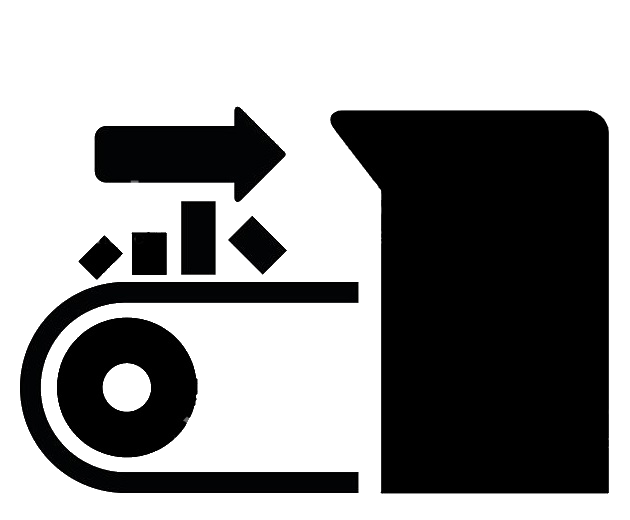
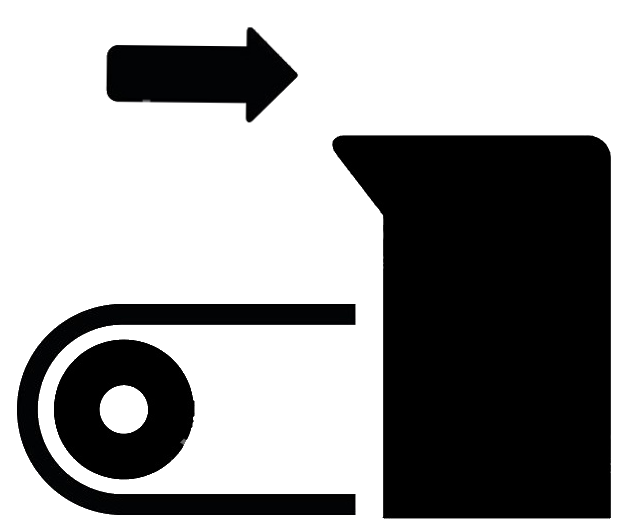
Some new images and new files.

Changed region(s): [[0.0, 0.0308, 0.573, 1.0], [0.5127, 0.1846, 0.9952, 1.0]]

diff --git a/views/Station.qml b/views/Station.qml
@@ -8,14 +8,62 @@ Item {
     property alias source: phase.source
     Rectangle {
         id: rect
-        color: "#adadad"
+        color: "#96969b"
+        anchors.rightMargin: 0
+        anchors.bottomMargin: 0
+        anchors.leftMargin: 0
+        anchors.topMargin: 0
         anchors.fill: parent
+
+        Image {
+            id: phaseE
+            x: 0
+            y: 50
+            width: 118
+            height: 102
+            fillMode: Image.PreserveAspectFit
+            source: "../images/entrada1.1.png"
+            Rectangle {
+                id: rectE
+                width: 10
+                height: 10
+                color: "#78f478"
+                radius: 5
+                anchors.right: parent.right
+                anchors.top: parent.top
+                anchors.topMargin: 0
+                anchors.rightMargin: 0
+
+            }
+        }
+
+        Image {
+            id: phaseS
+            x: 524
+            y: 50
+            width: 116
+            height: 102
+            fillMode: Image.PreserveAspectFit
+            source: "../images/salida1.1.png"
+            Rectangle {
+                id: rectS
+                width: 10
+                height: 10
+                color: "#78f478"
+                radius: 5
+                anchors.right: parent.right
+                anchors.top: parent.top
+                anchors.topMargin: 0
+                anchors.rightMargin: 0
+
+            }
+        }
     }
 
     Image {
         id: phaseR
-        x: 384
-        y: 223
+        x: 265
+        y: 245
         width: 41
         height: 52
         fillMode: Image.PreserveAspectFit
@@ -36,28 +84,16 @@ Item {
     }
     Image {
         id: phaseP
-        x: 38
+        x: 161
         y: 44
         width: 44
         height: 50
         fillMode: Image.PreserveAspectFit
         source: "../images/product2.png"
-        Rectangle {
-            id: rectP
-            width: 10
-            height: 10
-            color: "#78f478"
-            radius: 5
-            anchors.right: parent.right
-            anchors.top: parent.top
-            anchors.topMargin: 0
-            anchors.rightMargin: 0
-
-        }
     }
     Image {
         id: phaseC
-        x: 312
+        x: 389
         y: 8
         width: 54
         height: 51
@@ -79,8 +115,8 @@ Item {
         id: bchica
         x: 164
         y: 168
-        width: 217
-        height: 50
+        width: 405
+        height: 71
         anchors.horizontalCenter: parent.horizontalCenter
         fillMode: Image.PreserveAspectFit
         source: "../images/banda1.1.png"
@@ -90,48 +126,67 @@ Item {
         id: bgrande
         x: 22
         y: 100
-        width: 487
-        height: 54
+        width: 407
+        height: 62
+        anchors.horizontalCenterOffset: 1
         anchors.horizontalCenter: parent.horizontalCenter
         fillMode: Image.PreserveAspectFit
-        source: "../images/banda1.4.png"
+        source: "../images/banda1.1.png"
     }
-    states : [
-        State{
-            name:'apagadoR'
-            PropertyChanges {
-                target: rectR
-                color: "#ba0505"
-            }
-            PropertyChanges {
-                target: phaseR
-                source: "../images/repair3.1.png"
+//    states : [
+//        State{
+//            name:'apagadoR'
+//            PropertyChanges {
+//                target: rectR
+//                color: "#ba0505"
+//            }
+//            PropertyChanges {
+//                target: phaseR
+//                source: "../images/repair3.1.png"
 
-            }
-        },
-        State{
-            name:'apagadoC'
-            PropertyChanges {
-                target: rectC
-                color: "#ba0505"
-            }
-            PropertyChanges {
-                target: phaseC
-                source: "../images/repair3.1.png"
+//            }
+//        },
+//        State{
+//            name:'apagadoC'
+//            PropertyChanges {
+//                target: rectC
+//                color: "#ba0505"
+//            }
+//            PropertyChanges {
+//                target: phaseC
+//                source: "../images/check2.1.png"
 
-            }
-        },
-        State{
-            name:'apagadoP'
-            PropertyChanges {
-                target: rectP
-                color: "#ba0505"
-            }
-            PropertyChanges {
-                target: phaseP
-                source: "../images/repair3.1.png"
+//            }
+//        },
+//        State{
+//            name:'apagadoP'
+//            PropertyChanges {
 
-            }
-        }
-    ]
+//            }
+//        },
+//        State{
+//            name:'apagadoE'
+//            PropertyChanges {
+//                target: rectE
+//                color: "#ba0505"
+//            }
+//            PropertyChanges {
+//                target: phaseE
+//                source: "../images/entrada1.2.png"
+
+//            }
+//        },
+//        State{
+//            name:'apagadoS'
+//            PropertyChanges {
+//                target: rectS
+//                color: "#ba0505"
+//            }
+//            PropertyChanges {
+//                target: phaseS
+//                source: "../images/salida1.2.png"
+
+//            }
+//        }
+//    ]
 }

diff --git a/main.qml b/main.qml
@@ -2,6 +2,7 @@ import QtQuick 2.7
 import QtQuick.Controls 2.0
 import QtQuick.Layouts 1.3
 import my 1.0
+import "views"
 ApplicationWindow {
     visible: true
     width: 640
@@ -33,6 +34,12 @@ ApplicationWindow {
                 duration:300
             }
 
+        }
+        Loader{
+            id: initialPlaceHolder
+            source: "views/StartPage.qml"
+            active: true
+            visible: true
         }
 
     }

diff --git a/views/StartPage.qml b/views/StartPage.qml
@@ -4,9 +4,11 @@ import QtQuick.Layouts 1.3
 Item {
     property int station : 0
     id: item1
-
+    Rectangle{
+        color: "#575656"
+    anchors.fill: parent
+ }
     Station {
-
         anchors.bottom: parent.bottom
         anchors.bottomMargin: parent.height/3
         anchors.right: parent.right

diff --git a/views/Menu.qml b/views/Menu.qml
@@ -1,0 +1,14 @@
+import QtQuick 2.0
+import QtQuick.Layouts 1.3
+import QtQuick.Controls 2.2
+import QtQuick.Controls.Material 2.2
+ToolBar {
+    id: myTitleBar
+    RowLayout {
+        spacing: 6
+        anchors.fill:parent
+        Item {
+            width: 4
+        }
+    }
+}

diff --git a/views/InfoView.qml b/views/InfoView.qml
@@ -1,0 +1,16 @@
+import QtQuick 2.0
+
+Item {
+    Rectangle{
+        id: background
+        color: "#060511"
+        anchors.fill: parent
+
+Repeater{
+    model:15
+    Rectangle{
+
+    }
+}
+    }
+}
